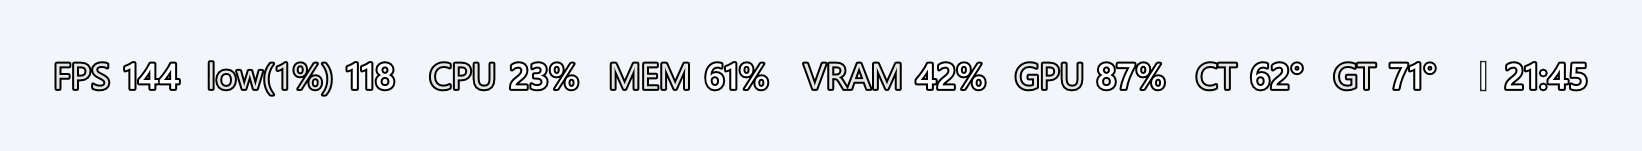
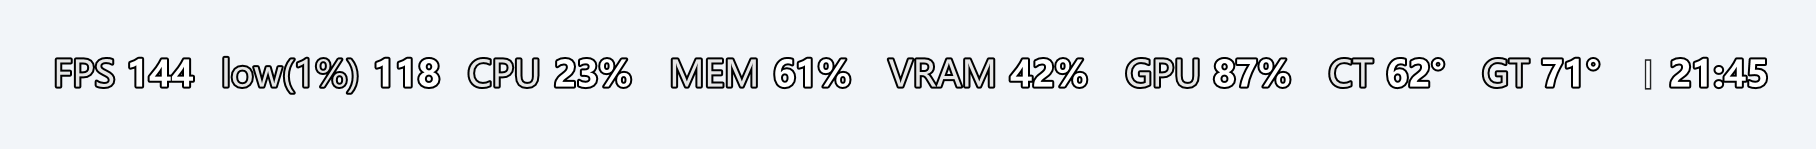
ui(1.0.0): 标题贴卡内左上；全程序统一雅黑；托盘菜单高亮铺满整行
- 设置面板「显示项目」标题从「整块垂直居中」里挪出来贴卡内左上：
  标题占的 26 DIP 先扣掉再让剩下的区域居中，新中心 (26+H)/2 恰好等于
  原来的 H/2+13 —— 标题上去了，十个开关一个像素都没动
- --measure-settings 新增「卡片标题贴卡内左上」断言（相对卡内边距量，
  四张卡的 Padding 本来就不同）；实测 4/4，最大 dx 1.0 / dy 1.4
- 新增 Services/UiFonts.cs 作为唯一字体来源：Controls/OutlineText、
  OverlayWindow.TextWidth、App.TextWidthDip 三处原本各自写
  "Segoe UI, Microsoft YaHei UI"，拉丁字符走 Segoe、中文走雅黑；
  现在统一雅黑优先。量宽与渲染同源，否则探针的「放得下」是假绿
- MenuRenderer.OnRenderMenuItemBackground：高亮矩形从 (2,1,Item.Width-4)
  改成 (0,1,ClientSize.Width)，与文字居中用同一基准 —— 原来左右各缩 2px
  再叠上 Item 与可视宽的差，看着就是一块贴在左边、右边没到底的方块
- --menu-shot 新增 --menu-hl <index>（Select 后 DrawToBitmap 才能画到高亮），
  实测高亮带 x 0..143 覆盖整行（菜单可视宽 144）
- --tray-menu / --menu-shot 补进 IsWindowlessProbe：浮窗开着时也能跑，
  原先会被单实例仲裁静默拦掉（连报告都不生成）
- WPF 浮窗右键菜单同步去掉水平内边距

Changed region(s): [[0.0311, 0.3758, 0.9939, 0.6443]]

diff --git a/Views/SettingsWindow.xaml b/Views/SettingsWindow.xaml
@@ -167,10 +167,20 @@
                      卡片内边距从 15,13 收到 14,12：多出来的一行不至于把窗口撑高，
                      文字也一个字都不用缩。 -->
                 <Border x:Name="CardDisplay" Grid.Row="0" Grid.Column="0" Style="{StaticResource Card}" Padding="14,12">
-                    <StackPanel VerticalAlignment="Center">
-                        <TextBlock Text="显示项目" Style="{StaticResource SectionTitle}" Margin="0,0,0,8" />
+                    <!-- 标题贴卡内左上，开关组仍旧是原来那个垂直中心。
+                         做法是把标题占的 26 DIP（18 字高 + 8 下边距）从「整块居中」里拿出来贴顶，
+                         剩下的区域自己再居中：新中心 = (26 + H) / 2，正好等于原来整块居中的
+                         中心 H/2 + 13 —— 换句话说，标题上去了，开关一个像素都没动。 -->
+                    <Grid>
+                        <Grid.RowDefinitions>
+                            <RowDefinition Height="Auto" />
+                            <RowDefinition Height="*" />
+                        </Grid.RowDefinitions>
 
-                        <Grid>
+                        <TextBlock x:Name="TxtTitleDisplay" Grid.Row="0" Text="显示项目"
+                                   Style="{StaticResource SectionTitle}" Margin="0,0,0,8" />
+
+                        <Grid Grid.Row="1" VerticalAlignment="Center">
                             <Grid.ColumnDefinitions>
                                 <ColumnDefinition Width="*" />
                                 <ColumnDefinition Width="14" />
@@ -263,13 +273,13 @@
                                       ToolTip="走 WDDM 适配器性能数据，免驱动、免管理员，NVIDIA / AMD 通用"
                                       Checked="OnAnyOptionChanged" Unchecked="OnAnyOptionChanged" />
                         </Grid>
-                    </StackPanel>
+                    </Grid>
                 </Border>
 
                 <!-- ===== 右上：外观 ===== -->
                 <Border x:Name="CardAppearance" Grid.Row="0" Grid.Column="2" Style="{StaticResource Card}" Padding="15,13">
                     <StackPanel VerticalAlignment="Center">
-                        <TextBlock Text="外观" Style="{StaticResource SectionTitle}" Margin="0,0,0,8" />
+                        <TextBlock x:Name="TxtTitleAppearance" Text="外观" Style="{StaticResource SectionTitle}" Margin="0,0,0,8" />
 
                         <!-- 主题：深色 / 浅色 / 跟随系统。切换即时生效，不需要重启，
                              面板本身、右键菜单与托盘菜单会一起变色（主题字典整份替换）。 -->
@@ -413,7 +423,7 @@
                 <!-- ===== 左下：行为 ===== -->
                 <Border x:Name="CardBehavior" Grid.Row="2" Grid.Column="0" Style="{StaticResource Card}" Padding="15,13">
                     <StackPanel VerticalAlignment="Center">
-                        <TextBlock Text="行为" Style="{StaticResource SectionTitle}" Margin="0,0,0,8" />
+                        <TextBlock x:Name="TxtTitleBehavior" Text="行为" Style="{StaticResource SectionTitle}" Margin="0,0,0,8" />
 
                         <!-- 四项两列（两行）：括号里的限定说明移到 tooltip，正文只留动作名。
                              竖排四行是这张卡偏高的唯一原因，压成两行后整张卡矮一截，
@@ -525,7 +535,7 @@
                             </Grid.RowDefinitions>
 
                             <StackPanel Grid.Row="0">
-                                <TextBlock Text="帧数采集" Style="{StaticResource SectionTitle}" Margin="0,0,0,8" />
+                                <TextBlock x:Name="TxtTitleFrame" Text="帧数采集" Style="{StaticResource SectionTitle}" Margin="0,0,0,8" />
 
                                 <TextBlock Text="帧数、1% Low 与 CPU 温度需要管理员权限。"
                                            FontSize="12" LineHeight="19" TextWrapping="Wrap"

diff --git a/Themes/Styles.xaml b/Themes/Styles.xaml
@@ -358,8 +358,11 @@
                 <ControlTemplate TargetType="ContextMenu">
                     <!-- 外层留白给投影，否则阴影会被裁掉 -->
                     <Grid Margin="9">
+                        <!-- 水平不留内边距（0,6）：菜单项的高亮底要**铺满整行**，
+                             和 Windows 自己的菜单一致。早先四周都留 6，高亮块成了浮在
+                             中间的一小块，右边总差半格，看着像没对齐。 -->
                         <Border Background="{DynamicResource MenuBg}" CornerRadius="10"
-                                BorderBrush="{DynamicResource MenuBorder}" BorderThickness="1" Padding="6">
+                                BorderBrush="{DynamicResource MenuBorder}" BorderThickness="1" Padding="0,6">
                             <Border.Effect>
                                 <DropShadowEffect BlurRadius="18" ShadowDepth="3" Direction="270"
                                                   Opacity="0.18" Color="#FF26456B" />

diff --git a/App.xaml.cs b/App.xaml.cs
@@ -898,13 +898,26 @@ namespace PerfOverlay
                 {
                     _trayMenu.CreateControl();
                     _trayMenu.PerformLayout();
+
+                    // --menu-hl <index>：把第 index 项置为选中再画，用来验证「高亮底铺满整行」。
+                    // 不选中的话 DrawToBitmap 出来的是一张没有 hover 的白菜单，
+                    // 高亮块的左右边界根本无从核对（这正是之前那块"偏左的方块"漏掉的原因）。
+                    int hl = -1;
+                    if (int.TryParse(ArgValue(System.Environment.GetCommandLineArgs(), "--menu-hl") ?? "", out hl)
+                        && hl >= 0 && hl < _trayMenu.Items.Count)
+                    {
+                        _trayMenu.Items[hl].Select();
+                        _trayMenu.PerformLayout();
+                    }
+
                     using (var bmp = new Bitmap(Math.Max(1, _trayMenu.Width), Math.Max(1, _trayMenu.Height)))
                     {
                         _trayMenu.DrawToBitmap(bmp, new Rectangle(0, 0, bmp.Width, bmp.Height));
                         bmp.Save(shot, System.Drawing.Imaging.ImageFormat.Png);
                         var c = bmp.GetPixel(Math.Min(6, bmp.Width - 1), Math.Min(6, bmp.Height - 1));
-                        LogInfo("TrayProbe", string.Format("菜单 {0}x{1} 左上像素 #{2:X2}{3:X2}{4:X2} → {5}",
-                            bmp.Width, bmp.Height, c.R, c.G, c.B, shot));
+                        LogInfo("TrayProbe", string.Format("菜单 {0}x{1} / 可视宽 {2} / 高亮项 {3} → {4}",
+                            bmp.Width, bmp.Height, _trayMenu.ClientSize.Width,
+                            hl >= 0 ? _trayMenu.Items[hl].Text : "无", shot));
                     }
                 }
                 catch (Exception ex) { LogError("TrayProbe", ex); }
@@ -1189,6 +1202,35 @@ namespace PerfOverlay
             bool behaviorOk = bhColA && bhColB && bhRows && bhApart && bhFits;
             if (!behaviorOk) fails++;
 
+            // 卡片标题必须落在「卡内左上」：四张卡等高、内容高矮不同，只要外面套了
+            // VerticalAlignment=Center，标题就会被推到竖直中间 —— 截图上看只是"稍微靠下"，
+            // 实际差三十多个 DIP，和右边那张卡的标题完全不在一条线上。
+            // 判据用「相对卡内边距」而不是绝对坐标：两张卡的 Padding 本来就不同（14,12 / 15,13）。
+            var titles = w.Titles();
+            string[] cardNames = { "显示项目", "外观", "行为", "帧数采集" };
+            int titleBad = 0;
+            double titleMaxDx = 0, titleMaxDy = 0;
+            var titleDetail = new StringBuilder();
+            for (int i = 0; i < titles.Length && i < cards.Length; i++)
+            {
+                var bd = cards[i] as System.Windows.Controls.Border;
+                double padL = bd == null ? 0 : bd.Padding.Left;
+                double padT = bd == null ? 0 : bd.Padding.Top;
+                var tp = titles[i].TranslatePoint(new System.Windows.Point(0, 0), w);
+                // SectionTitle 自带 Margin.Left = 2，所以左边留到 3 DIP 的容差
+                double dx = tp.X - (rects[i].Left + padL);
+                double dy = tp.Y - (rects[i].Top + padT);
+                if (dx > titleMaxDx) titleMaxDx = dx;
+                if (dy > titleMaxDy) titleMaxDy = dy;
+                if (dx > 3.0 || dy > 1.5)
+                {
+                    titleBad++;
+                    titleDetail.AppendFormat(" {0}(dx={1:0.0},dy={2:0.0})", cardNames[i], dx, dy);
+                }
+            }
+            bool titlesOk = titleBad == 0;
+            if (!titlesOk) fails++;
+
             // 标题栏 logo：要真的画出来了（取帧失败时 Image 仍在树里，只是宽高为 0），
             // 且不能压到右边的「性能浮窗」标题；垂直方向与文字同中线。
             var hdr = w.HeaderLogoRow();
@@ -1275,6 +1317,9 @@ namespace PerfOverlay
                 bhGap, bhFits ? "OK" : "FAIL", behaviorOk ? "OK" : "FAIL"));
             if (!bhFits && bhTight.Length > 0) sb.AppendLine("     放不下：" + bhTight.ToString().Trim());
 
+            sb.AppendLine(string.Format("   卡片标题  = 贴卡内左上 {0}/{1}（最大 dx {2:0.0} / dy {3:0.0}）=> {4}{5}",
+                titles.Length - titleBad, titles.Length, titleMaxDx, titleMaxDy,
+                titlesOk ? "OK" : "FAIL", titleDetail.Length > 0 ? "　偏离:" + titleDetail.ToString().Trim() : ""));
             sb.AppendLine(string.Format("   标题 logo = {0:0.0} x {1:0.0} DIP / 不压标题 {2} / 与文字同中线 {3} => {4}",
                 logoW, logoH, logoClear ? "OK" : "FAIL", logoMidOk ? "OK" : "FAIL", logoOk ? "OK" : "FAIL"));
             sb.AppendLine(string.Format("   蓝底占比  = {0}%（阈值 25%，不随主题切近黑底）=> {1}",
@@ -1780,8 +1825,9 @@ namespace PerfOverlay
         {
             try
             {
-                var tf = new System.Windows.Media.Typeface(new System.Windows.Media.FontFamily("Segoe UI, Microsoft YaHei UI"),
-                                      FontStyles.Normal, weight, FontStretches.Normal);
+                // 必须与界面同一个字体（Services.UiFonts）：这个宽度拿来判断
+                // "按钮里那行字放不放得下"，字体不一致就等于拿别人的尺子量自己的衣服。
+                var tf = Services.UiFonts.Typeface(weight);
                 var ft = new System.Windows.Media.FormattedText(text ?? "", System.Globalization.CultureInfo.CurrentUICulture,
                                            FlowDirection.LeftToRight, tf, fontSize,
                                            System.Windows.Media.Brushes.Black, 1.0);
@@ -2086,6 +2132,11 @@ namespace PerfOverlay
                 || HasArg(args, "--hotkey-test")
                 || HasArg(args, "--shot")
                 || HasArg(args, "--readme-shot")
+                // 托盘菜单探针：只建一个菜单对象画位图，不建主窗口、不常驻，
+                // 浮窗正开着的时候也要能跑（否则「菜单长得对不对」永远只能在
+                // 关掉浮窗之后才验得了，平时最需要看的时候恰好验不了）。
+                || HasArg(args, "--tray-menu")
+                || HasArg(args, "--menu-shot")
                 || HasArg(args, "--clean-etw");
         }
 
@@ -2837,8 +2888,14 @@ namespace PerfOverlay
             if (!e.Item.Selected || !e.Item.Enabled) return;
             var g = e.Graphics;
             g.SmoothingMode = Drawing2D.SmoothingMode.AntiAlias;
-            var r = new Rectangle(2, 1, e.Item.Width - 4, e.Item.Height - 2);
-            using (var path = MenuSkin.RoundedPath(r, Math.Max(3, r.Height / 3)))
+            // 高亮底必须**铺满整行**：横向基准取菜单可视宽度，不是 Item.Width。
+            // 早先写 (2, 1, Item.Width - 4, ...)：左右各缩 2px，而 Item.Width 本身又和
+            // 可视宽度差几像素，结果就是一块贴在左边、右边明显没到底的方块 ——
+            // 文字是按 ClientSize.Width 居中的，两个基准不一致，看着就是"偏左"。
+            // 现在与文字同一基准、横向 0..ClientSize.Width；圆角交给窗口 Region 去裁，
+            // 贴边的直角在四角处会被自然裁成圆角，不会露出方形缺口。
+            var r = new Rectangle(0, 1, e.ToolStrip.ClientSize.Width, e.Item.Height - 2);
+            using (var path = MenuSkin.RoundedPath(r, Math.Max(4, r.Height / 5)))
             {
                 using (var b = new SolidBrush(_p.Hover)) g.FillPath(b, path);
             }

diff --git a/Services/UiFonts.cs b/Services/UiFonts.cs
@@ -1,0 +1,30 @@
+using System.Windows;
+using System.Windows.Media;
+
+namespace PerfOverlay.Services
+{
+    /// <summary>
+    /// 全程序唯一的字体来源。
+    ///
+    /// 为什么必须集中：界面里有两套排版路径，一套是 WPF 布局（TextBlock / CheckBox，取
+    /// Themes/Styles.xaml 的 UiFont），一套是自己用 FormattedText 量宽再排（浮窗描边文字、
+    /// 各个 --measure 探针）。两套一旦取到不同字体，探针量出来的「这行字放得下」就和屏幕上
+    /// 真实渲染不是一回事 —— 断言全绿而实际被裁掉，这种假绿最难查。
+    ///
+    /// 字体链：微软雅黑优先，最后才回落到 Segoe UI（只在雅黑被裁掉的精简系统上才会用到）。
+    /// 顺序不能反：写成 "Segoe UI, Microsoft YaHei UI" 时，数字与拉丁字母会走 Segoe UI，
+    /// 中文走雅黑，同一行里两种字形混排，视觉上字重和字面高度都对不齐。
+    /// </summary>
+    internal static class UiFonts
+    {
+        /// <summary>与 Themes/Styles.xaml 里的 UiFont 键**必须逐字相同**（XAML 引不了 C# 常量）。</summary>
+        public const string FamilyList = "Microsoft YaHei UI, Microsoft YaHei, Segoe UI";
+
+        public static readonly FontFamily Family = new FontFamily(FamilyList);
+
+        public static Typeface Typeface(FontWeight weight)
+        {
+            return new System.Windows.Media.Typeface(Family, FontStyles.Normal, weight, FontStretches.Normal);
+        }
+    }
+}

diff --git a/Views/SettingsWindow.xaml.cs b/Views/SettingsWindow.xaml.cs
@@ -76,6 +76,17 @@ namespace PerfOverlay.Views
             return new System.Windows.FrameworkElement[] { CardDisplay, CardAppearance, CardBehavior, CardFrame };
         }
 
+        /// <summary>
+        /// 诊断用：四张卡的标题，顺序与 <see cref="Cards"/> 一一对应。
+        /// 标题「在不在卡内左上」不能靠看截图 —— 四张卡等高而内容高矮不同，
+        /// 只要外面套了 VerticalAlignment=Center，标题就会被推到中间，
+        /// 肉眼看像是"稍微靠下"，量出来能差三十多个 DIP。
+        /// </summary>
+        public System.Windows.FrameworkElement[] Titles()
+        {
+            return new System.Windows.FrameworkElement[] { TxtTitleDisplay, TxtTitleAppearance, TxtTitleBehavior, TxtTitleFrame };
+        }
+
         /// <summary>诊断用：CT 行（开关 + 感叹号）。感叹号平时是 Collapsed，断言要临时点亮它。</summary>
         public System.Windows.FrameworkElement[] TempRow()
         {

diff --git a/Controls/OutlineText.cs b/Controls/OutlineText.cs
@@ -97,8 +97,10 @@ namespace PerfOverlay.Controls
             set { SetValue(TextAlignmentProperty, value); }
         }
 
-        private static readonly FontFamily Face =
-            new FontFamily("Segoe UI, Microsoft YaHei UI");
+        // 字体统一从 Services.UiFonts 取，别在这里另写一份字面量：
+        // 浮窗的宽高是「先按这个字体量字宽、再定 SizeToContent」算出来的，
+        // 一旦这里与界面的 UiFont 不是同一个，浮窗就会按错误的宽度自适应（表现为文字贴边或被裁）。
+        private static readonly FontFamily Face = PerfOverlay.Services.UiFonts.Family;
 
         // FormattedText 的构造要查字体、排版、算字宽，比看上去贵。
         // 每次 UpdateMetrics 都会走「Measure → Render」两遍，文本相同就没必要建两遍，

diff --git a/Views/OverlayWindow.xaml.cs b/Views/OverlayWindow.xaml.cs
@@ -280,8 +280,7 @@ namespace PerfOverlay.Views
         {
             try
             {
-                var tf = new Typeface(new FontFamily("Segoe UI, Microsoft YaHei UI"),
-                                      FontStyles.Normal, weight, FontStretches.Normal);
+                var tf = PerfOverlay.Services.UiFonts.Typeface(weight);
                 var ft = new FormattedText(text, System.Globalization.CultureInfo.CurrentUICulture,
                                            FlowDirection.LeftToRight, tf, fontSize, Brushes.Black, 1.0);
                 return ft.WidthIncludingTrailingWhitespace;

diff --git a/_release/notes-1.0.0.md b/_release/notes-1.0.0.md
@@ -15,7 +15,13 @@
 - 移除行为面板底部「关闭本窗口不退出程序」提示。
 - 移除帧数采集说明中的「开机自启时会弹授权框，点『是』即可」。
 - 热键输入框宽度改为与上方「左上 / 中上 / 右上」按钮组两端对齐。
+- 「显示项目」标题移到卡片内左上，与其余三张卡的标题落在同一水平线上。
 - 面板高度 576 → 537 DIP。
+
+### 统一：字体与菜单高亮
+
+- 全程序统一使用微软雅黑（原先浮窗的文字排版优先取 Segoe UI，同一行里中西文混排）。
+- 托盘菜单的悬停高亮铺满整行，不再只包住文字周围的一小块。
 
 ### 版本
 
@@ -26,5 +32,5 @@
 单文件 exe，无附加 DLL，覆盖旧版即可。
 
 ```
-SHA256  b7ce81adf62c4eaded24aa61c097380c4cb80e1f9e80a14214419ed2a539632a
+SHA256  2e2d97a25c043b695dfeb1f67227352025daa80bf145f86370bc505fed62fce8
 ```

diff --git a/README.md b/README.md
@@ -209,7 +209,9 @@ PawnIO 驱动本体**不由本项目分发**，只在你点了「下载并安装
 - **「帧数采集」卡显示实时采集目标**：进程名 + PID，前台换窗口就跟着变，没有目标时直说「未锁定」。
   去掉了「采集通道」那一行。
 - **设置面板精简**：行为面板去掉底部「关闭本窗口不退出程序」提示与「开机自启会弹授权框」说明；
-  热键输入框宽度与上方「左上 / 中上 / 右上」按钮组两端对齐；面板高度 576 → 537 DIP。
+  热键输入框宽度与上方「左上 / 中上 / 右上」按钮组两端对齐；「显示项目」标题移到卡内左上，
+  与其余三张卡的标题齐平；面板高度 576 → 537 DIP。
+- **字体与菜单**：全程序统一微软雅黑；托盘菜单的悬停高亮铺满整行。
 - 版本号进入 1.0.0。
 
 **v0.9.8**（2026-11-13）
